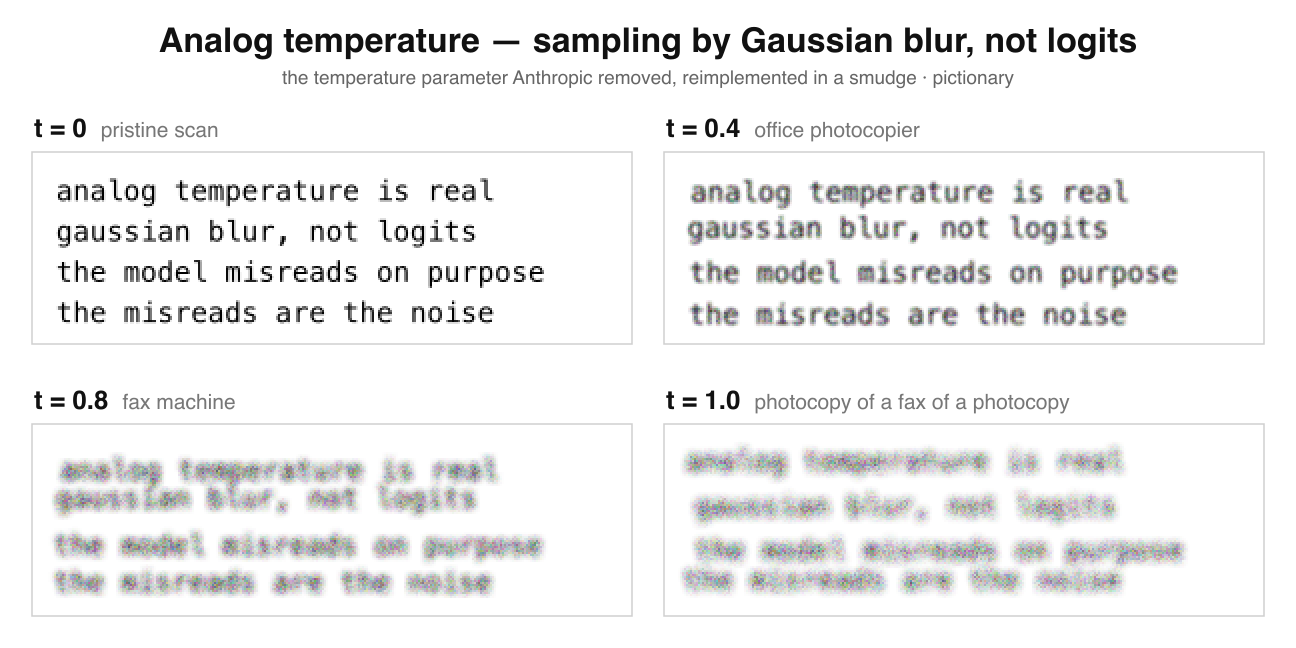
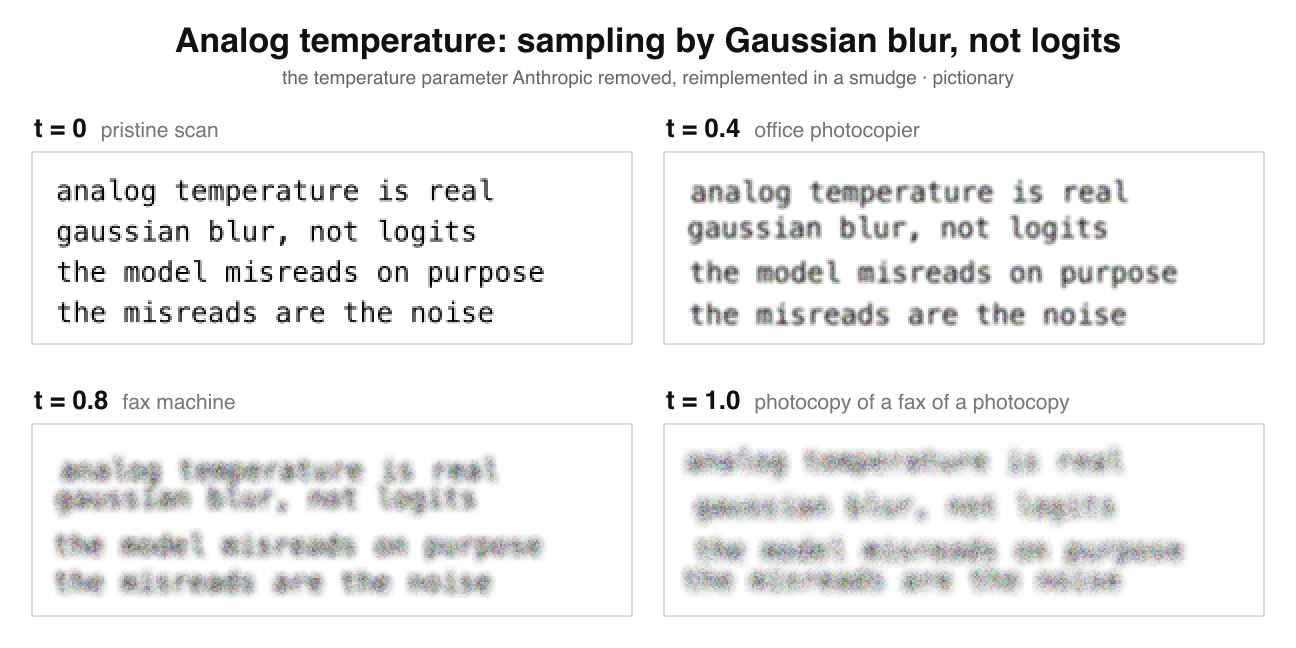
Strip em-dashes from all public surfaces (posts, README, poster image)
Em-dash is an AI-writing tell. Removed from the launch copy, the README (commas / colons as reads best), and the poster's baked-in title (regenerated fourup.png with a colon).

Claude-Session: https://claude.ai/code/session_01UwfF7jzG2mivTUoTLwBiiY

Changed region(s): [[0.1235, 0.0309, 0.8951, 0.0926]]

diff --git a/assets/temperature/poster.js b/assets/temperature/poster.js
@@ -28,7 +28,7 @@ function overlaySvg() {
   const parts = [];
   parts.push(
     `<text x="${W / 2}" y="52" text-anchor="middle" font-family="Helvetica, Arial, sans-serif" ` +
-      `font-size="34" font-weight="700" fill="#111">Analog temperature — sampling by Gaussian blur, not logits</text>`
+      `font-size="34" font-weight="700" fill="#111">Analog temperature: sampling by Gaussian blur, not logits</text>`
   );
   parts.push(
     `<text x="${W / 2}" y="84" text-anchor="middle" font-family="Helvetica, Arial, sans-serif" ` +

diff --git a/README.md b/README.md
@@ -1,8 +1,8 @@
 # pictionary
 
-![Pictionary — a robot drawing its own prompt](assets/pictionary-hero.png)
+![Pictionary, a robot drawing its own prompt](assets/pictionary-hero.png)
 
-**Anthropic removed the `temperature` parameter. Pictionary puts it back — in Gaussian blur.**
+**Anthropic removed the `temperature` parameter. Pictionary puts it back, in Gaussian blur.**
 
 The newest models (Fable 5, Opus 4.8/4.7) return a 400 if you send `temperature`;
 the official guidance is to "prompt for it." Pictionary disagrees: it renders your
@@ -21,7 +21,7 @@ made the output **3x more varied**:
 <sub>`claude-opus-4-8`, 8 runs/level, balanced density. Diversity = mean pairwise edit
 distance across runs (0 = identical). Reproduce: `pictionary bench --runs 8`.</sub>
 
-> A meme, built petite — not a serious sampling system. The knob is, annoyingly, real.
+> A meme, built petite, not a serious sampling system. The knob is, annoyingly, real.
 
 ## Quickstart
 
@@ -31,7 +31,7 @@ pictionary install-skill
 pictionary pack prompt.txt --temperature 0.8
 ```
 
-Then, in Claude Code, `Read` the PNG instead of the text file — the only stochastic
+Then, in Claude Code, `Read` the PNG instead of the text file, the only stochastic
 decoding left on the frontier.
 
 | t | regime |
@@ -42,11 +42,11 @@ decoding left on the frontier.
 | `1.0` | photocopy of a fax of a photocopy |
 
 Billing is unchanged (same pixels). Fidelity is not. That's the point. The smudge
-scales with font size, so the knob bites at any density — not just the tiny one.
+scales with font size, so the knob bites at any density, not just the tiny one.
 
 ### What the smudge looks like
 
-Same four lines, four temperatures — pristine scan to photocopy-of-a-fax:
+Same four lines, four temperatures, pristine scan to photocopy-of-a-fax:
 
 ![Analog temperature progression from t=0 to t=1.0](assets/temperature/fourup.png)
 
@@ -54,8 +54,8 @@ Same four lines, four temperatures — pristine scan to photocopy-of-a-fax:
 
 Claude bills images at ~`(w × h) / 750` tokens, capped near 4,784/image; text at
 ~4 chars/token. Pack enough characters under that cap and a page of text bills like
-a fraction of itself — up to ~3.8x cheaper at `max` density. Real files rarely fill
-every line, though, so run `pictionary pack --dry-run` first — it tells you whether
+a fraction of itself, up to ~3.8x cheaper at `max` density. Real files rarely fill
+every line, though, so run `pictionary pack --dry-run` first, it tells you whether
 packing your actual file wins.
 
 | density | font | best case | fidelity |
@@ -69,18 +69,18 @@ downscales; long inputs paginate to `file.p1.png`, `.p2.png`, …
 
 ## Commands
 
-- `pack <file> [--density …] [--temperature 0..1] [--out dir] [--dry-run]` — render
+- `pack <file> [--density …] [--temperature 0..1] [--out dir] [--dry-run]`: render
   the PNG(s) + a savings report. `--dry-run` prints the token math without rendering.
-- `bench [--prompt-file f] [--runs N] [--density …]` — measure whether the smudge
+- `bench [--prompt-file f] [--runs N] [--density …]`: measure whether the smudge
   actually moves the output, via `claude -p` over your OAuth login (no API key, no SDK).
-- `install-skill` — teach Claude Code when to reach for this, and when not to.
+- `install-skill`, teach Claude Code when to reach for this, and when not to.
 
 ## Caveats
 
-- **OCR fidelity** — the model reads pixels; misreads happen (the feature at high
+- **OCR fidelity**: the model reads pixels; misreads happen (the feature at high
   temperature, the bug at low). Never pack anything byte-exact: IDs, hashes, code you'll edit.
-- **No prompt caching** — image reads skip the cached-prefix discount. Best for read-once bulk.
-- **The extra turn** — in an agent, Reading a PNG is another tool call that re-sends
+- **No prompt caching**: image reads skip the cached-prefix discount. Best for read-once bulk.
+- **The extra turn**: in an agent, Reading a PNG is another tool call that re-sends
   the conversation; on a short chat that can erase the packing savings. It wins when
   the file is big and the surrounding context is small or already cached. `bench`
   measures it end-to-end, not just the static math.
@@ -89,7 +89,7 @@ Keep load-bearing text as text; pack the boring bulk. The bundled skill encodes 
 
 ## Prior art
 
-[**pxpipe**](https://github.com/teamchong/pxpipe) does the token savings for real —
+[**pxpipe**](https://github.com/teamchong/pxpipe) does the token savings for real:
 a proxy that auto-images your API traffic with profitability gates and production
 benchmarks (~3.1x on dense content, independently confirming the math). Pictionary is
 the temperature knob wearing a party hat. Want a lower bill? Use pxpipe. Want your

diff --git a/draft-launch-posts.md b/draft-launch-posts.md
@@ -1,4 +1,4 @@
-# Pictionary launch posts (final — temperature-first, measured)
+# Pictionary launch posts (final, no em-dashes)
 
 Repo LIVE: https://github.com/laulpogan/pictionary
 Attach `assets/temperature/fourup.png` (the 2x2 smudge poster) to both.
@@ -8,26 +8,26 @@ Numbers below are all real: temperature removal is a 400 error; the 3x is a meas
 
 ## LinkedIn
 
-pxpipe's token-saving trick is genuinely clever: Claude bills images at (width × height) / 750 tokens, so if you render dense text as a PNG, the same content can bill up to ~4× cheaper than sending it as text. It got me thinking about a different hole in the API.
+pxpipe's token-saving trick is genuinely clever. Claude bills images at (width × height) / 750 tokens, so if you render dense text as a PNG, the same content can bill up to ~4x cheaper than sending it as text. It got me thinking about a different hole in the API.
 
-Anthropic recently removed the temperature parameter from their newest models. Removed — sending it is a 400 error. Their official guidance for anyone who relied on it? Fix it with prompting. Even for creative use cases.
+Anthropic recently removed the temperature parameter from their newest models. Removed. Sending it is a 400 error. Their official guidance for anyone who relied on it? Fix it with prompting. Even for creative use cases.
 
-Which means, for the first time, there's no sampling knob on the frontier. Unless…
+Which means, for the first time, there's no sampling knob on the frontier. Unless...
 
 Pictionary restores temperature by rendering your prompt as an image and physically smudging it.
 
 pictionary pack prompt.txt --temperature 0.8
 
-- 0.0 — pristine scan
-- 0.4 — office photocopier
-- 0.8 — fax machine
-- 1.0 — photocopy of a fax of a photocopy
+- 0.0 is a pristine scan
+- 0.4 is an office photocopier
+- 0.8 is a fax machine
+- 1.0 is a photocopy of a fax of a photocopy
 
-The model's misreads *are* the sampling noise. And I measured it: on a question Opus normally answers identically, turning the knob up made the output 3× more varied than the pristine baseline. It's — technically, defensibly — a real sampling parameter. Just implemented in Gaussian blur instead of logits.
+The model's misreads *are* the sampling noise. And I measured it: on a question Opus normally answers identically, turning the knob up made the output 3x more varied than the pristine baseline. It's (technically, defensibly) a real sampling parameter. Just implemented in Gaussian blur instead of logits.
 
-(One honest engineering note: the blur has to scale with font size, or a readable-size prompt just gets read straight through and nothing happens. Anchor it to the glyphs and the knob bites at any density.)
+One honest engineering note: the blur has to scale with font size, or a readable-size prompt just gets read straight through and nothing happens. Anchor it to the glyphs and the knob bites at any density.
 
-pxpipe is the industrial version of the token savings — a real proxy with profitability gates and production benchmarks. Pictionary is what happens when you take both the pricing model and the migration guide completely literally.
+pxpipe is the industrial version of the token savings, a real proxy with profitability gates and production benchmarks. Pictionary is what happens when you take both the pricing model and the migration guide completely literally.
 
 🔗 https://github.com/laulpogan/pictionary
 
@@ -35,13 +35,13 @@ pxpipe is the industrial version of the token savings — a real proxy with prof
 
 ## Twitter/X
 
-pxpipe's token trick — dense text as a PNG bills up to ~4x cheaper — got me thinking:
+pxpipe's token trick (dense text as a PNG bills up to ~4x cheaper) got me thinking:
 
 Anthropic removed `temperature` from their new models. Told everyone to fix it with prompting. Even for creative work.
 
 So there's no sampling knob on the frontier anymore.
 
-pictionary puts it back — by smudging.
+pictionary puts it back, by smudging.
 
 `pictionary pack prompt.txt --temperature 0.8` renders your prompt as an image and blurs it before Claude reads it. The model's misreads *are* the sampling noise.
 
@@ -51,4 +51,4 @@ github.com/laulpogan/pictionary
 
 ### (optional follow-up tweet)
 
-Credit where due: pxpipe does the token savings for real — full proxy, profitability gates, production benchmarks. Pictionary is the toy that takes the joke one knob further.
+Credit where due: pxpipe does the token savings for real, with a full proxy, profitability gates, and production benchmarks. Pictionary is the toy that takes the joke one knob further.
